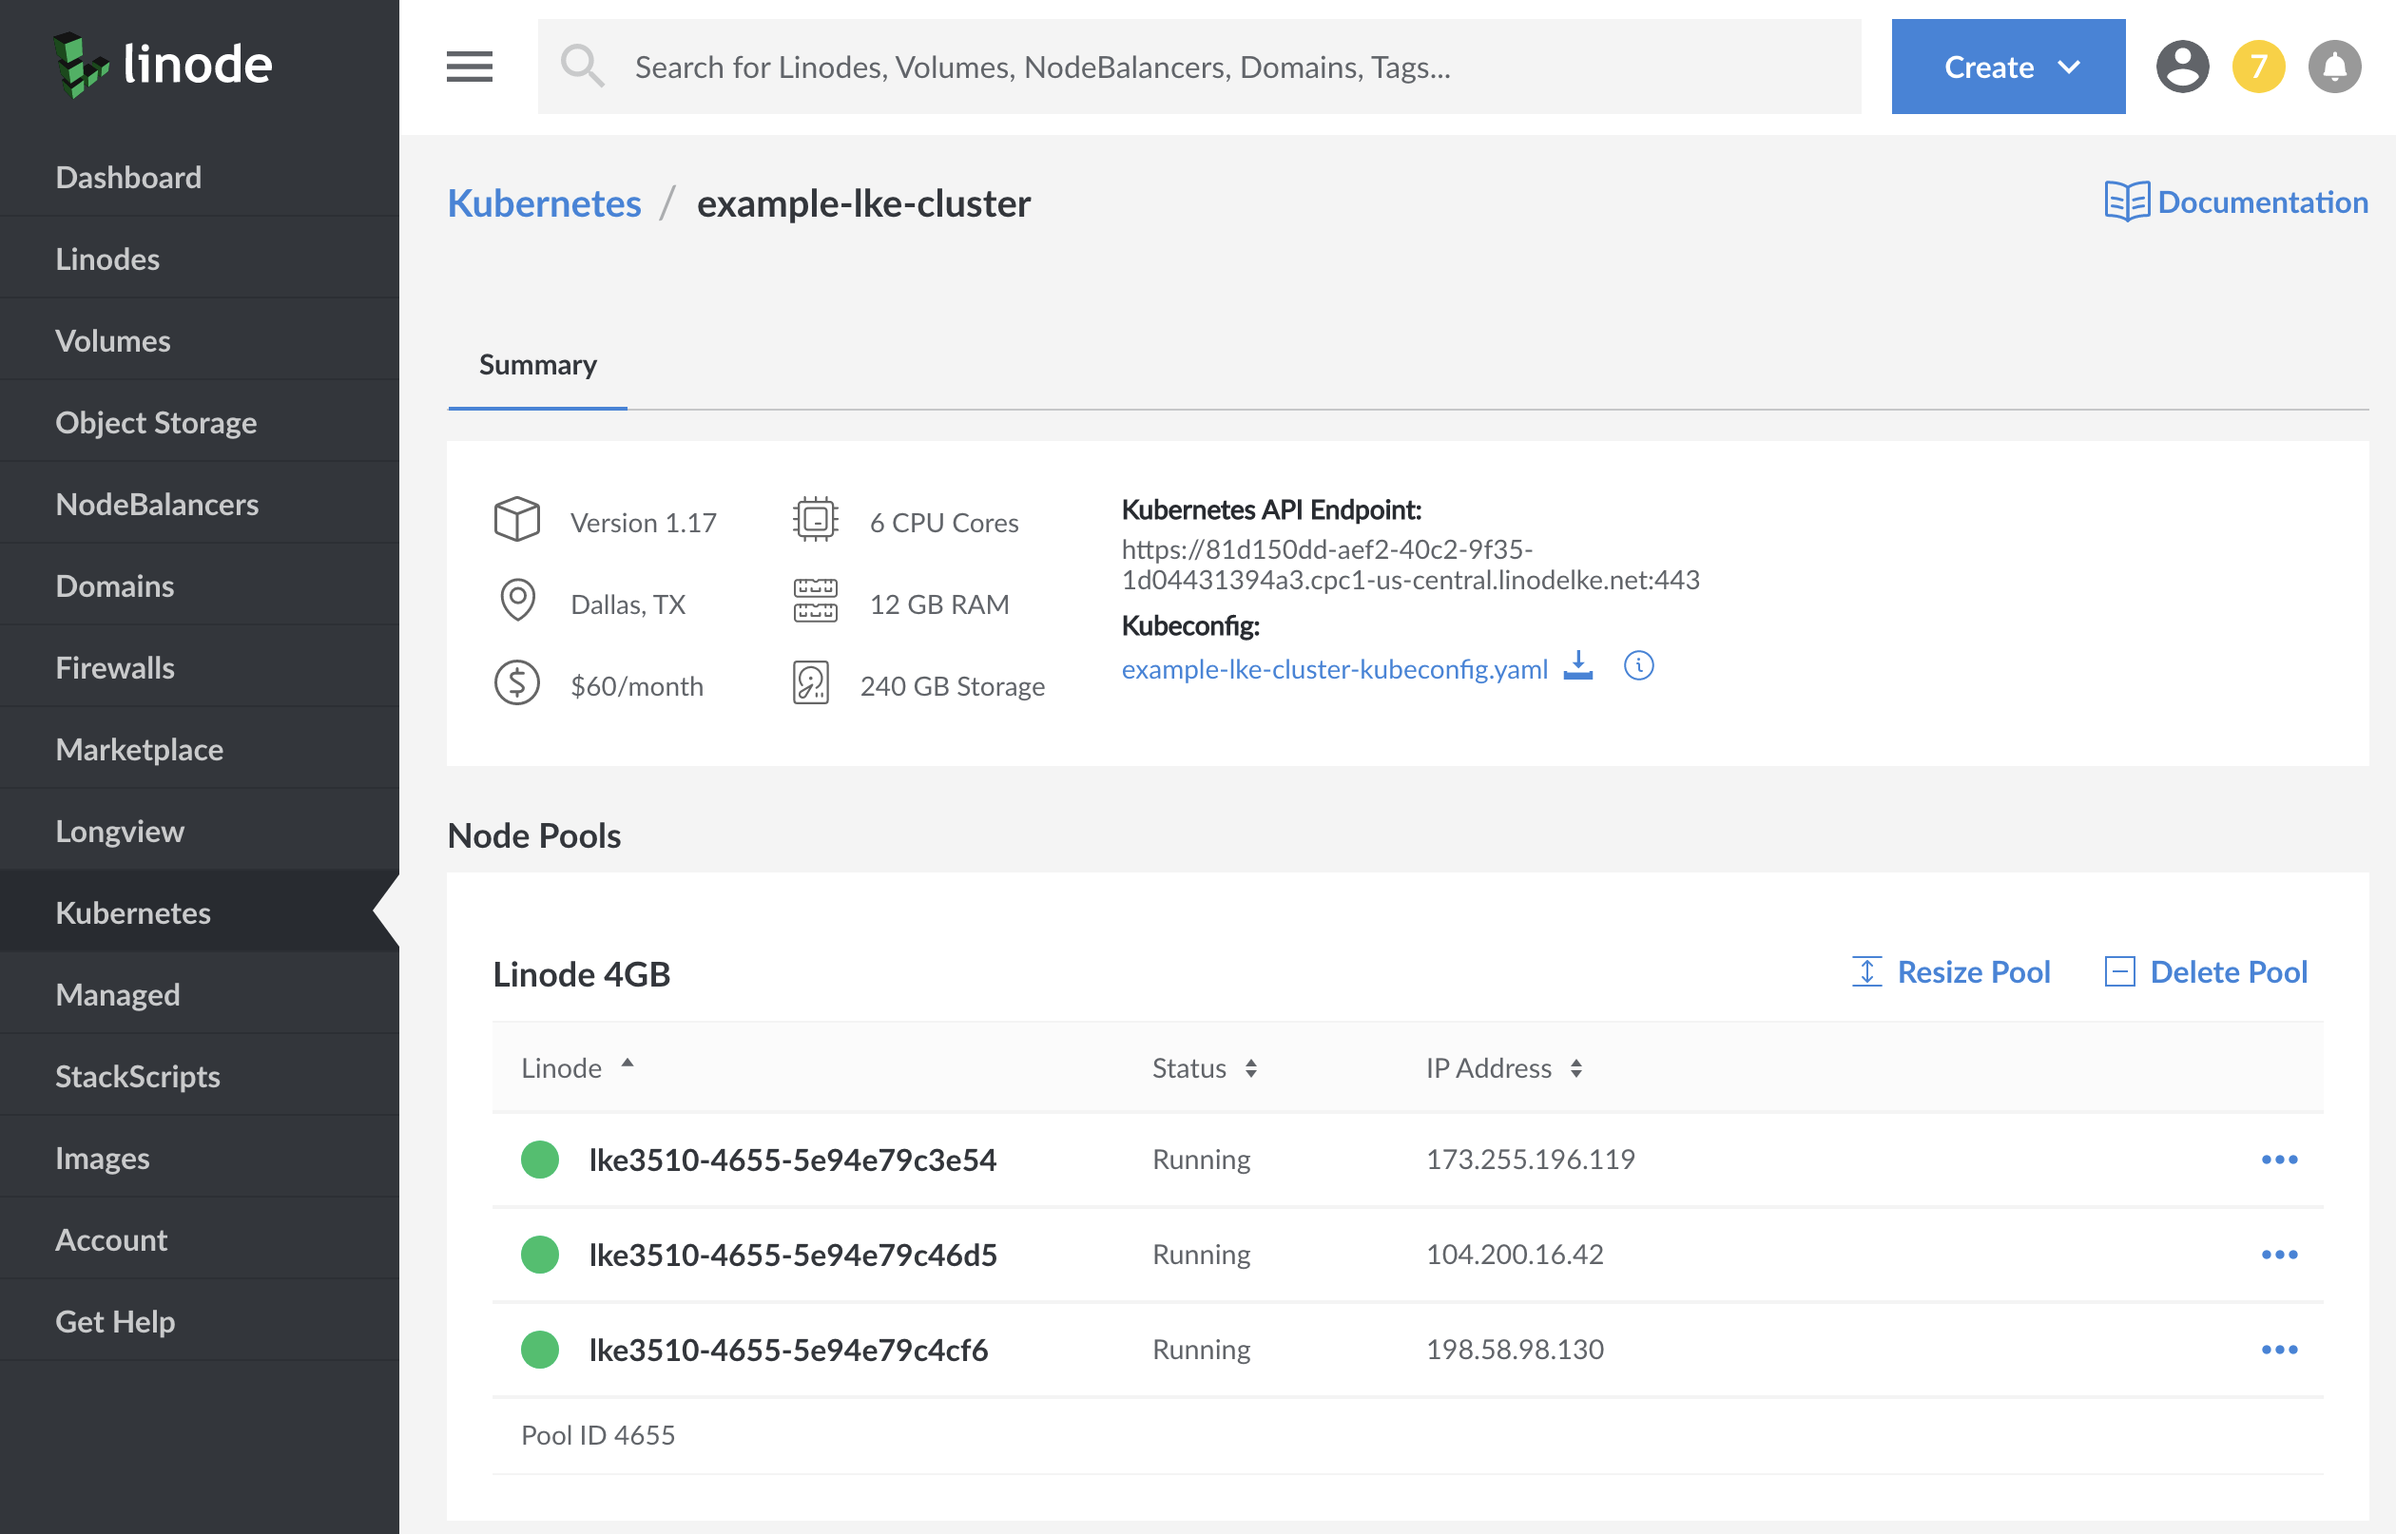
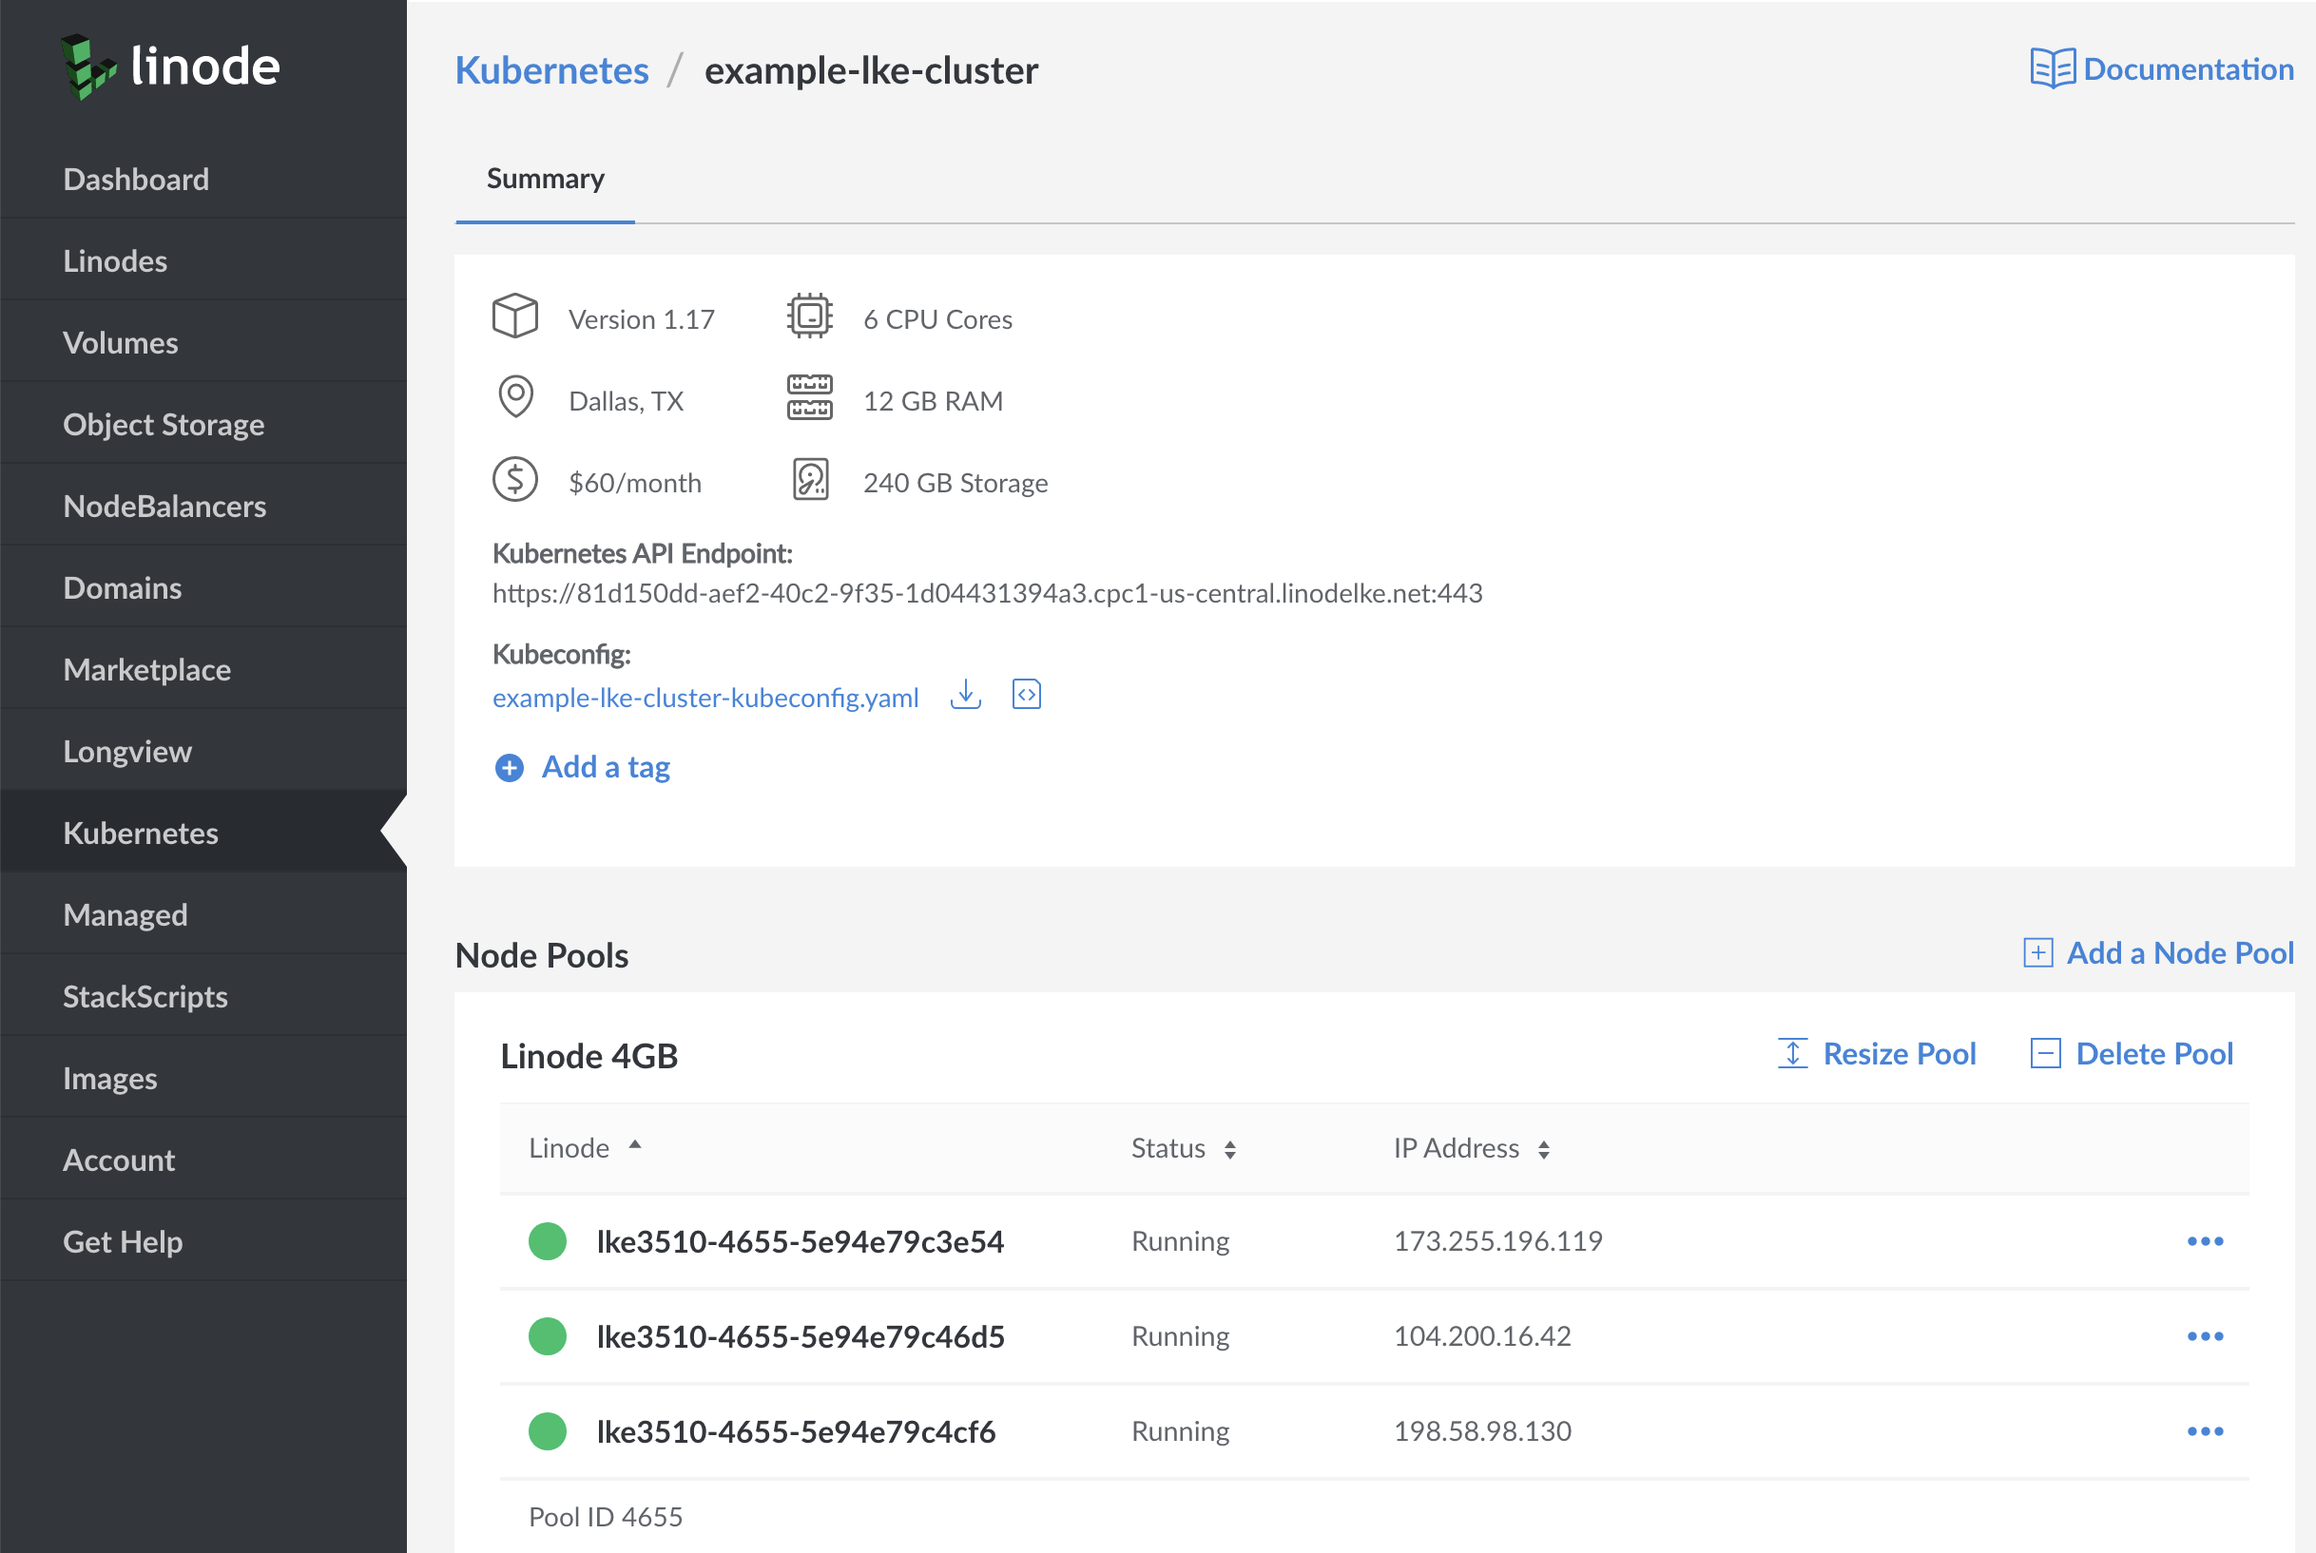
new updates

diff --git a/docs/kubernetes/deploy-and-manage-a-cluster-with-linode-kubernetes-engine-a-tutorial/index.md b/docs/kubernetes/deploy-and-manage-a-cluster-with-linode-kubernetes-engine-a-tutorial/index.md
@@ -19,9 +19,7 @@ external_resources:
 aliases: ['applications/containers/kubernetes/how-to-deploy-a-cluster-with-lke/','applications/containers/kubernetes/deploy-and-manage-a-cluster-with-linode-kubernetes-engine-a-tutorial/']
 ---
 {{< note >}}
-Linode Kubernetes Engine (LKE) is currently in Private Beta, and you may not have access to LKE through the Cloud Manager or other tools. To request access to the Private Beta, [sign up here](https://welcome.linode.com/lkebeta/). Beta access awards you $100/month in free credits for the duration of the beta, which is automatically applied to your account when an LKE cluster is in use. Additionally, you will have access to the `Linode Green Light` community, a new program connecting beta users with our product and engineering teams.
-
-Additionally, because LKE is in Beta, there may be breaking changes to how you access and manage LKE. This guide will be updated to reflect these changes if and when they occur.
+This guide uses Linode Kubernetes Engine (LKE) to deploy a managed Kubernetes cluster. For more information on Kubernetes key concepts, see our [Beginner's Guide to Kubernetes](https://www.linode.com/docs/kubernetes/beginners-guide-to-kubernetes/)
 {{< /note >}}
 
 ## What is the Linode Kubernetes Engine (LKE)
@@ -90,7 +88,7 @@ LKE is not available in the Linode Classic Manager
 
     ![Set Cluster Settings](cluster-options.png "Select your cluster's setting.")
 
-1. In the **Add Node Pools** section, select the [hardware resources](/docs/platform/how-to-choose-a-linode-plan/#hardware-resource-definitions) for the Linode worker node(s) that make up your LKE cluster. To the right of each plan, select the plus `+` and minus `-` to add or remove a Linode to a node pool one at time. Once you're satisfied with the number of node's in a node pool, select **Add** to include it in your configuration. If you decide that you need more or fewer hardware resources after you deploy your cluster, you can always [edit your Node Pool](#edit-or-remove-existing-node-pools).
+1. In the **Add Node Pools** section, select the [hardware resources](/docs/platform/how-to-choose-a-linode-plan/#hardware-resource-definitions) for the Linode worker node(s) that make up your LKE cluster. To the right of each plan, select the plus `+` and minus `-` to add or remove a Linode to a node pool one at time. Once you're satisfied with the number of nodes in a node pool, select **Add** to include it in your configuration. If you decide that you need more or fewer hardware resources after you deploy your cluster, you can always [edit your Node Pool](#edit-or-remove-existing-node-pools).
 
     {{< note >}}
 Currently, the available plan types for LKE worker nodes are [Standard](/docs/platform/how-to-choose-a-linode-plan/#2-standard), [Dedicated CPU](/docs/platform/how-to-choose-a-linode-plan/#4-dedicated-cpu), and [High Memory](/docs/platform/how-to-choose-a-linode-plan/#3-high-memory) plans.
@@ -249,6 +247,16 @@ You can use the Linode Cloud Manager to modify a cluster's existing node pools b
 1.  Click the cluster that you wish to modify. The Kubernetes cluster's details page will appear.
 
     ![Kubernetes cluster's details page](cluster-details-page.png "Kubernetes cluster's details page.")
+
+### Adding a Node Pool
+
+1. To add a new Node Pool to your cluster, navigate to the [cluster's details page](#access-your-cluster-s-details-page) and select the add a node pool option to the right of the node pools section.
+
+    ![Add a node pool to your cluster](add-node-pool-cluster.png "Add a node pool to your cluster")
+
+1. In the new window that appears, select the [hardware resources](/docs/platform/how-to-choose-a-linode-plan/#hardware-resource-definitions) that you'd like to add to your new Node Pool. To the right of each plan, select the plus `+` and minus `-` to add or remove a Linode to a node pool one at time. Once you're satisfied with the number of nodes in a node pool, select **Add** to include it in your configuration. If you decide that you need more or fewer hardware resources after you deploy your cluster, you can always [edit your Node Pool](#edit-or-remove-existing-node-pools).
+
+ ![Add node pool window](add-pool-window.png "Add node pool window")
 
 ### Edit or Remove Existing Node Pools
 
